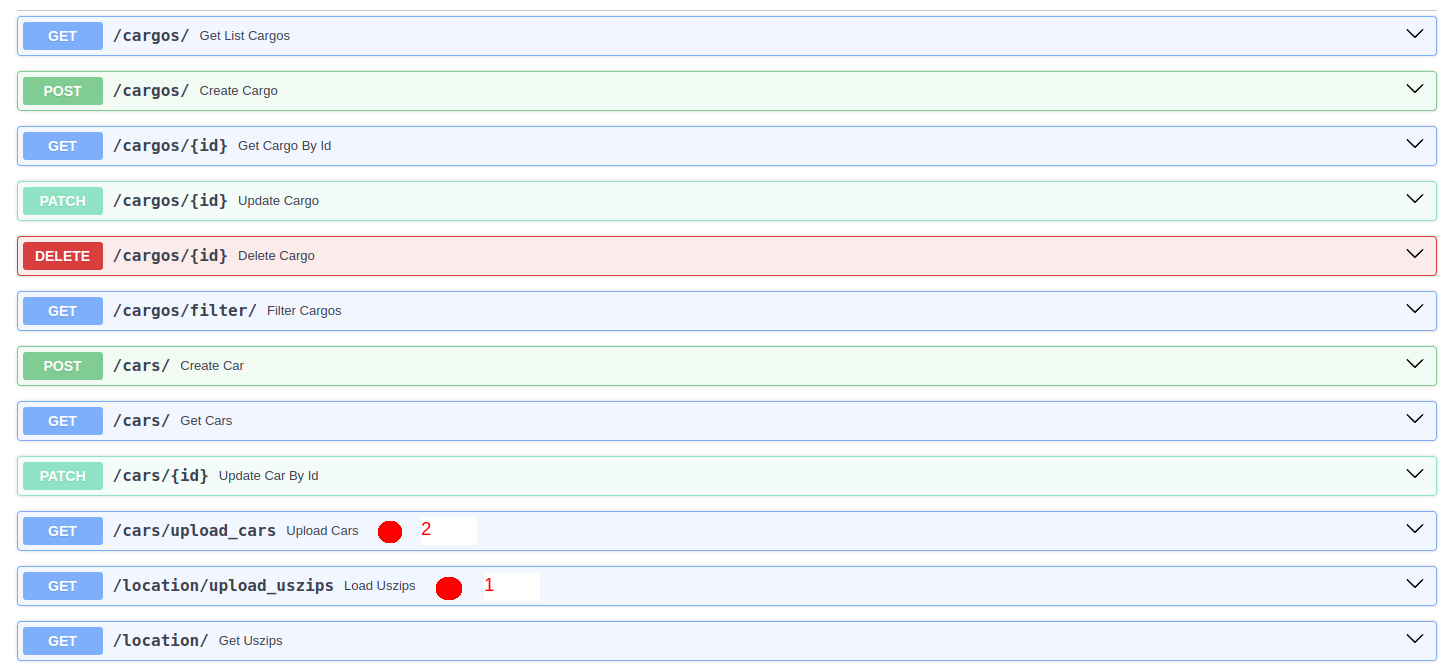
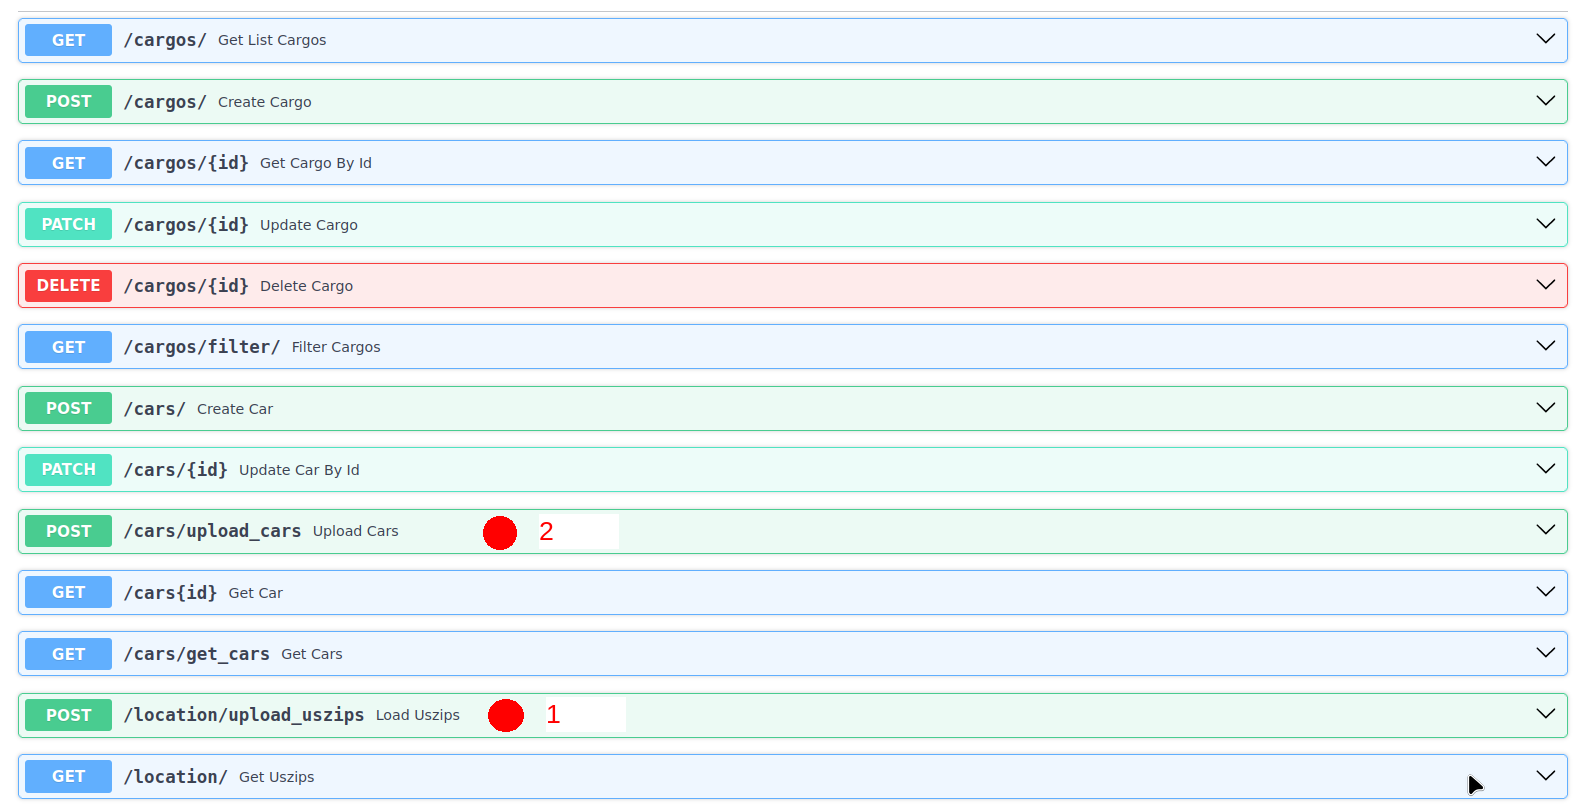
fix: update car fixed (finding location using zip) and images for readme

Changed region(s): [[0.0, 0.0, 0.9938, 1.0]]

diff --git a/car/services.py b/car/services.py
@@ -24,10 +24,17 @@ async def get_car_by_id(id: int):
 
 async def update_car_by_id(id: int, car_to_update: dict):
     car = await get_car_by_id(id=id)
-    new_car_location = await Location.get(zip=car_to_update['zip'])
-    car_to_update['car_location_id'] = new_car_location.id
-    await car.update_from_dict(car_to_update).save()
-    return car.id
+
+    if "zip" not in car_to_update:
+        await car.update_from_dict(car_to_update)
+        await car.save()
+        return car.id
+    else:
+        new_car_location = await Location.get(zip=car_to_update['zip'])
+        car_to_update['car_location_id'] = new_car_location.id
+        await car.update_from_dict(car_to_update)
+        await car.save()
+        return car.id
 
 
 async def get_cars(limit: int):

diff --git a/car/handlers.py b/car/handlers.py
@@ -34,15 +34,15 @@ async def update_car_by_id(id: int, car_update: CarUpdateRequest):
         location = await get_location_by_zip(zip=car_update.zip)
         if location is None:
             raise HTTPException(status_code=404, detail="This location (zip) was not found")
-
     try:
+        print(car_to_update)
         car_updated_id = await services.update_car_by_id(id=id, car_to_update=car_to_update)
     except Exception as ex:
         raise HTTPException(status_code=500, detail=f"Database error: {ex}")
     return {"id": car_updated_id}
 
 
-@router_car.get("/upload_cars")
+@router_car.post("/upload_cars")
 async def upload_cars():
     """"Добавляет 200 случайных машин в БД"""""
     try:

diff --git a/location/handlers.py b/location/handlers.py
@@ -7,7 +7,7 @@ from .schema import LocationListResponse
 router_location = APIRouter()
 
 
-@router_location.get("/upload_uszips")
+@router_location.post("/upload_uszips")
 async def load_uszips():
     """"Добавляет локации из файла uszips.csv"""""
     try:
